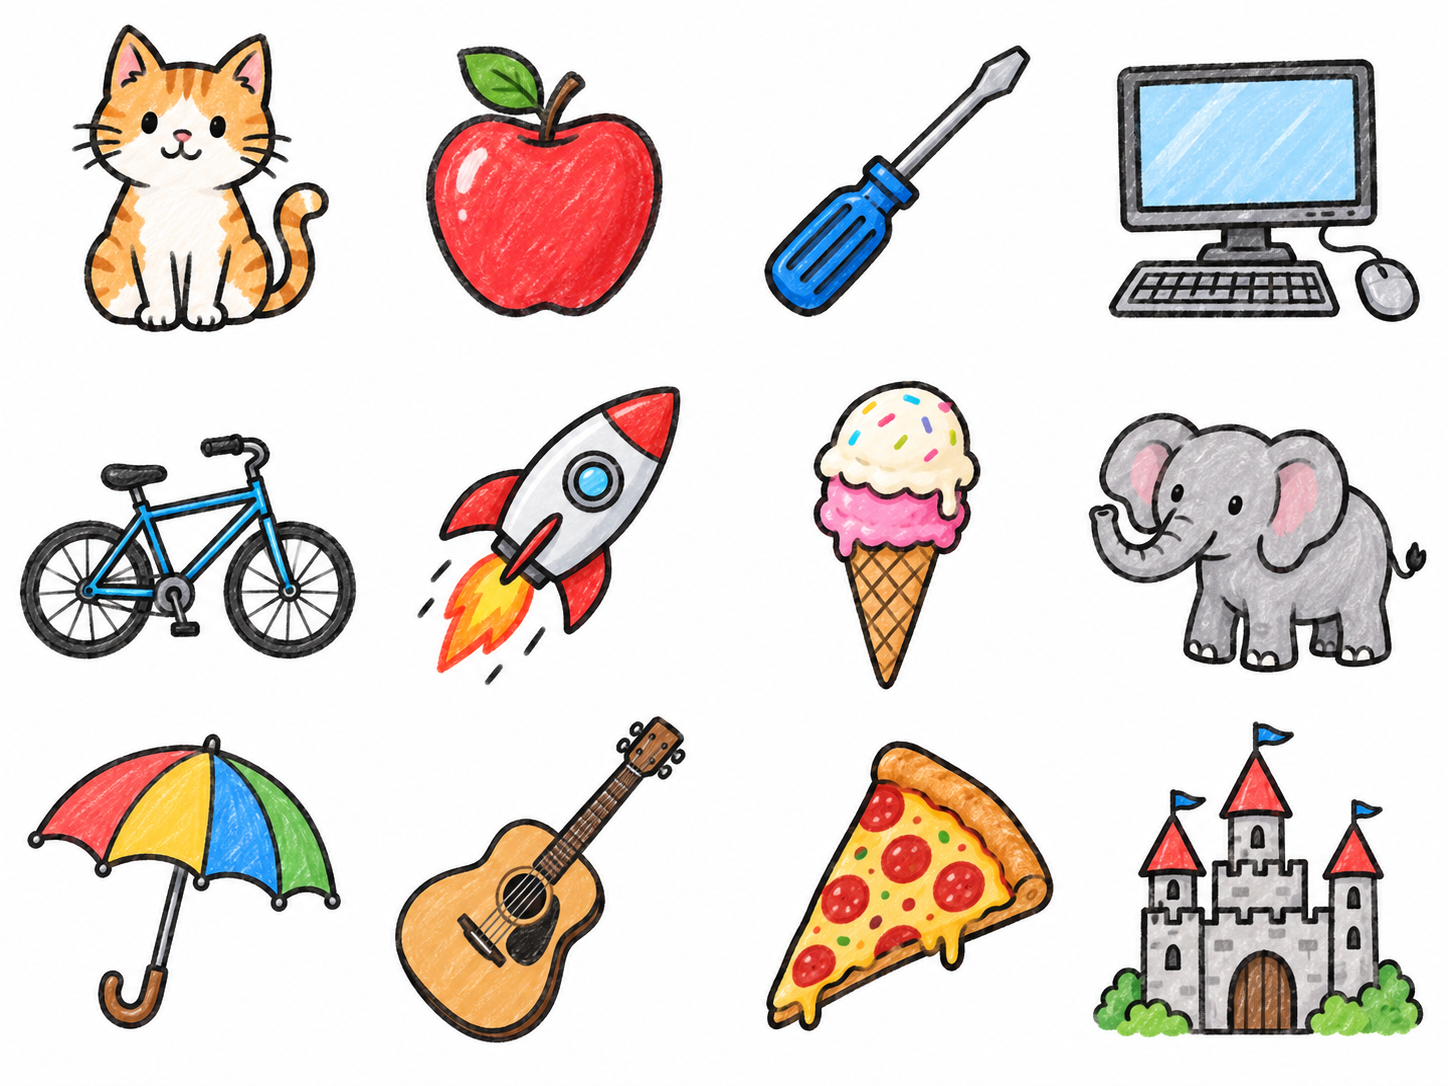
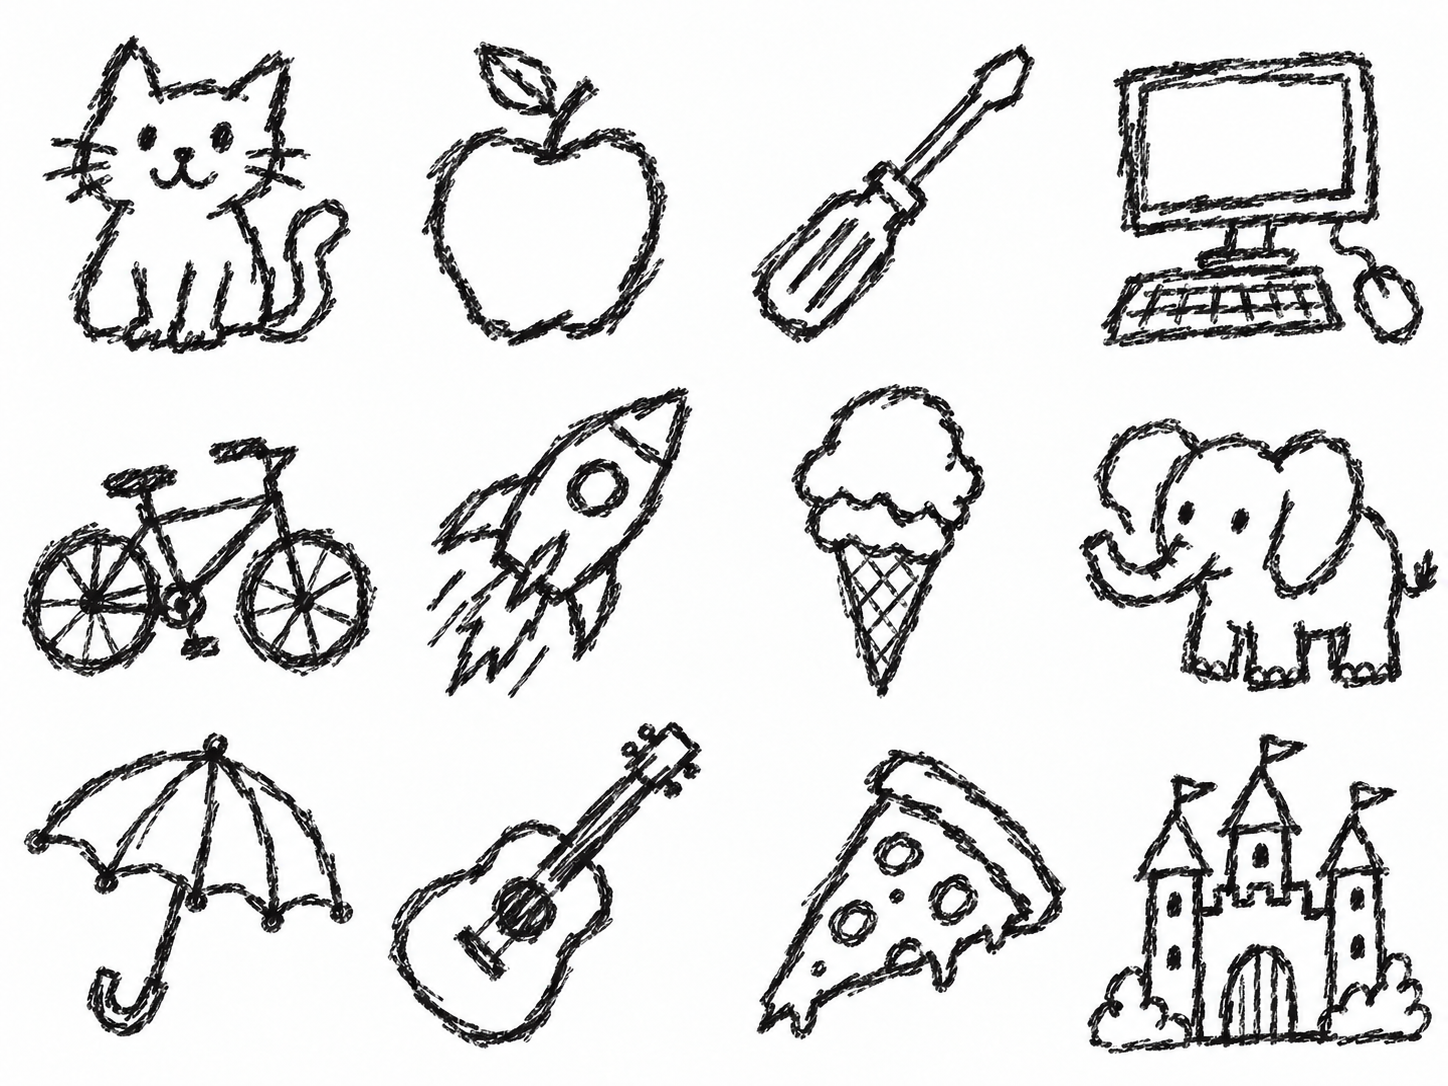
Make PhoneEnigma harder with monochrome sketches and daily-only play

diff --git a/components/EnigmaGame.tsx b/components/EnigmaGame.tsx
@@ -1,21 +1,22 @@
 "use client";
 import Link from 'next/link';
 import { useEffect, useRef, useState } from 'react';
-import { ArrowLeft, ArrowRight, CalendarDays, Check, Flame, Lightbulb, LoaderCircle, Paintbrush, RotateCcw, Share2, Shuffle } from 'lucide-react';
+import { ArrowLeft, ArrowRight, CalendarDays, Check, Flame, Lightbulb, LoaderCircle, Paintbrush, Share2, } from 'lucide-react';
 import ThemeToggle from './ThemeToggle';
 import { enigmaDate, enigmaStreak, ENIGMA_LIMIT, normalizeEnigma, type EnigmaResult } from '@/lib/enigma';
 type SavedGame = { id:number; guesses:string[]; day:string };
 type Stats = { wins:string[]; played:string[] };
 const STATS_KEY = 'phoneart-enigma-stats';
-const keyOf = (mode:string, day:string) => mode === 'daily' ? `phoneart-enigma-${day}` : 'phoneart-enigma-free';
+const keyOf = (_mode:string, day:string) => `phoneart-enigma-${day}`;
 function readSaved(key:string):SavedGame | null {
   try { const s=JSON.parse(localStorage.getItem(key) || 'null'); return s && Number.isInteger(s.id) && Array.isArray(s.guesses) && s.guesses.length<=6 && s.guesses.every((g:unknown)=>typeof g==='string') ? s : null; } catch { return null; }
 }
 function readStats():Stats { try { const s=JSON.parse(localStorage.getItem(STATS_KEY)||'{}');return {wins:Array.isArray(s.wins)?s.wins.filter((d:unknown)=>typeof d==='string'):[],played:Array.isArray(s.played)?s.played.filter((d:unknown)=>typeof d==='string'):[]}; } catch {return {wins:[],played:[]};} }
-// Central tiles appear first. Each mistake reveals four more pieces.
-const REVEAL_ORDER = [10, 5, 14, 9, 6, 17, 13, 2, 18, 7, 1, 22, 11, 16, 4, 15, 21, 8, 3, 20, 0, 23, 12, 19];
+// Reveal only 6% initially, with smaller fragments and a slower progression.
+const REVEAL_ORDER = Array.from({length:64}, (_, i) => (i * 37 + 10) % 64);
+const REVEAL_COUNTS = [4, 8, 14, 22, 34, 48];
 export default function EnigmaGame() {
-  const [mode,setMode]=useState<'daily'|'free'>('daily');
+  const mode = 'daily' as const;
   const [game,setGame]=useState<EnigmaResult|null>(null), [input,setInput]=useState('');
   const [busy,setBusy]=useState(true), [error,setError]=useState(''), [notice,setNotice]=useState('');
   const [stats,setStats]=useState<Stats>({wins:[],played:[]});
@@ -34,14 +35,14 @@ export default function EnigmaGame() {
       }
     } catch { /* Gameplay remains available when browser storage is disabled. */ }
   }
-  async function load(nextMode:'daily'|'free', fresh=false) {
+  async function load(nextMode:'daily', fresh=false) {
     const request=++requestId.current;setBusy(true);setError('');setNotice('');setInput('');
     try {
-      let result=await fetchGame({mode:nextMode,...(fresh ? {exclude:game?.id} : {})});
+      let result=await fetchGame({mode:nextMode});
       const saved=!fresh && readSaved(keyOf(nextMode,result.day));
       if(saved)result=await fetchGame({mode:nextMode,id:saved.id,guesses:saved.guesses,day:nextMode==='daily'?result.day:undefined});
       if(request!==requestId.current)return;
-      setGame(result);setMode(nextMode);persist(result);setStats(readStats());
+      setGame(result);persist(result);setStats(readStats());
     }catch(e){if(request===requestId.current)setError(e instanceof Error?e.message:'Não foi possível carregar.');}
     finally {if(request===requestId.current)setBusy(false);}
   }
@@ -63,11 +64,11 @@ export default function EnigmaGame() {
   async function share() {
     if(!game)return;
     const squares=game.attempts.map(a=>a.correct?'🟩':'⬜').join('');
-    const text=`PhoneEnigma ${mode==='daily'?game.day:'Livre'} · ${game.won?game.attempts.length:'X'}/6\n${squares}\n${game.score} pontos\n${location.origin}/enigma`;
+    const text=`PhoneEnigma ${game.day} · ${game.won?game.attempts.length:'X'}/6\n${squares}\n${game.score} pontos\n${location.origin}/enigma`;
     try {await navigator.clipboard.writeText(text);setNotice('Resultado copiado! Cole para compartilhar.');}
     catch {try {if(navigator.share)await navigator.share({text});else setNotice(text);}catch{setNotice(text);}}
   }
-  const revealed=game?.finished?24:Math.min(24,4*((game?.attempts.length??0)+1));
+  const revealed=game?.finished?64:REVEAL_COUNTS[game?.attempts.length??0];
   const visible=new Set(REVEAL_ORDER.slice(0,revealed));
-  return <><header className="site-header"><Link className="brand enigma-brand" href="/"><span className="brand-icon"><Paintbrush size={23}/></span>Phone<span>Art</span></Link><div className="header-right"><ThemeToggle/><Link className="enigma-back" href="/"><ArrowLeft size={16}/> Multiplayer</Link></div></header><main className="enigma-main"><div className="enigma-intro"><span className="eyebrow">Seu intervalo criativo</span><h1>Phone<span>Enigma</span></h1><p>Um desenho escondido. Seis chances de descobrir.</p></div><div className="enigma-topbar"><div className="tabs" aria-label="Tipo de desafio"><button className={mode==='daily'?'selected':''} disabled={busy} onClick={()=>load('daily')}><CalendarDays size={16}/> Desafio do dia</button><button className={mode==='free'?'selected':''} disabled={busy} onClick={()=>load('free')}><Shuffle size={16}/> Modo livre</button></div><span className="enigma-streak"><Flame size={18}/>{game?enigmaStreak(stats.wins,game.day):0} {game && enigmaStreak(stats.wins,game.day)===1?'dia seguido':'dias seguidos'}</span></div>{!game ? <section className="panel enigma-loading">{busy?<><LoaderCircle className="spin"/>Preparando seu desenho…</>:<button onClick={()=>load(mode,true)}>Tentar novamente</button>}</section>:<div className="enigma-layout"><section className="panel enigma-board"><div className="enigma-board-heading"><span><Lightbulb size={16}/>{game.category}</span><span>{game.finished?'Desenho revelado':`Pista ${game.attempts.length+1} de 6`}</span></div><div className="enigma-picture" role="img" aria-label={game.finished?`Desenho de ${game.answer}`:'Desenho parcialmente revelado; descubra o objeto'}><div className="enigma-sprite" style={{backgroundPosition:`${(game.id%4)*100/3}% ${Math.floor(game.id/4)*50}%`}}/><div className="enigma-mask" aria-hidden="true">{Array.from({length:24},(_,i)=><span key={i} className={visible.has(i)?'revealed':''}/>)}</div></div><p className="enigma-caption">{game.finished?'Agora você pode ver a imagem completa.':'Cada tentativa errada revela mais um pedaço.'}</p></section><section className="panel enigma-play"><div className="enigma-mode-label">{mode==='daily'?`Desafio de ${game.day.split('-').reverse().join('/')}`:'Sem pressa, sem limite de partidas'}</div><h2>{game.finished?game.won?'Você descobriu!':'Faltou um pouquinho.':'O que está no desenho?'}</h2>{game.finished?<div className="enigma-result" role="status"><p>A resposta é <strong>{game.answer}</strong>.</p><div className="enigma-score">{game.score}<span>pontos</span></div><p>{game.won?`Acertou em ${game.attempts.length} ${game.attempts.length===1?'tentativa':'tentativas'}.`:'Seis tentativas, uma nova ideia para a próxima.'}</p><button className="primary wide" onClick={share}><Share2 size={17}/>Compartilhar resultado</button><button className="secondary wide" disabled={busy} onClick={()=>load('free',true)}><RotateCcw size={17}/>{mode==='daily'?'Continuar no modo livre':'Próximo desenho'}</button>{mode==='daily'&&<small>Um novo desafio chega à meia-noite, no horário de Brasília.</small>}</div>:<form onSubmit={submit}><label htmlFor="enigma-answer">Sua resposta</label><div className="enigma-input"><input ref={inputRef} id="enigma-answer" placeholder="Ex.: chave de fenda" autoComplete="off" maxLength={50} value={input} disabled={busy} onChange={e=>setInput(e.target.value)}/><button className="primary" disabled={busy||!normalizeEnigma(input)} aria-label="Enviar tentativa">{busy?<LoaderCircle className="spin" size={18}/>:<ArrowRight size={20}/>}</button></div><small>Acentos e maiúsculas não fazem diferença.</small><p className="enigma-chances">{6-game.attempts.length} {game.attempts.length===5?'chance restante':'chances restantes'} · até {(6-game.attempts.length)*100} pontos</p></form>}<ol className="enigma-attempts" aria-label="Suas tentativas">{Array.from({length:ENIGMA_LIMIT},(_,i)=>{const a=game.attempts[i];return <li key={i} className={a?.correct?'correct':a?'incorrect':''}><span className="enigma-attempt-number">{i+1}</span><span>{a?.value??'—'}</span>{a&&(a.correct?<Check size={17}/>:<span className="enigma-attempt-label">Mais uma pista</span>)}</li>;})}</ol></section></div>}{error&&<p className="error" role="alert">{error}</p>}{notice&&<p className="enigma-notice" role="status">{notice}</p>}<section className="enigma-rules"><h2>Como funciona</h2><div><p><b>01</b> Observe os pedaços e a categoria.</p><p><b>02</b> Tente uma palavra. Errou? Mais desenho aparece.</p><p><b>03</b> Acerte em até seis chances. Menos pistas, mais pontos.</p></div><small>O desafio diário é igual para todo mundo. Progresso e sequência ficam salvos neste navegador, sem cadastro.</small></section></main></>;
+  return <><header className="site-header"><Link className="brand enigma-brand" href="/"><span className="brand-icon"><Paintbrush size={23}/></span>Phone<span>Art</span></Link><div className="header-right"><ThemeToggle/><Link className="enigma-back" href="/"><ArrowLeft size={16}/> Multiplayer</Link></div></header><main className="enigma-main"><div className="enigma-intro"><span className="eyebrow">Seu intervalo criativo</span><h1>Phone<span>Enigma</span></h1><p>Um desenho escondido. Seis chances de descobrir.</p></div><div className="enigma-topbar"><span className="enigma-daily-label"><CalendarDays size={16}/> Apenas um desafio por dia</span><span className="enigma-streak"><Flame size={18}/>{game?enigmaStreak(stats.wins,game.day):0} {game && enigmaStreak(stats.wins,game.day)===1?'dia seguido':'dias seguidos'}</span></div>{!game ? <section className="panel enigma-loading">{busy?<><LoaderCircle className="spin"/>Preparando seu desenho…</>:<button onClick={()=>load(mode,true)}>Tentar novamente</button>}</section>:<div className="enigma-layout"><section className="panel enigma-board"><div className="enigma-board-heading"><span><Lightbulb size={16}/>{game.finished || game.attempts.length>=3 ? game.category : "Categoria na 4ª pista"}</span><span>{game.finished?'Desenho revelado':`Pista ${game.attempts.length+1} de 6`}</span></div><div className="enigma-picture" role="img" aria-label={game.finished?`Desenho de ${game.answer}`:'Desenho parcialmente revelado; descubra o objeto'}><div className="enigma-sprite" style={{backgroundPosition:`${(game.id%4)*100/3}% ${Math.floor(game.id/4)*50}%`}}/><div className="enigma-mask" aria-hidden="true">{Array.from({length:64},(_,i)=><span key={i} className={visible.has(i)?'revealed':''}/>)}</div></div><p className="enigma-caption">{game.finished?'Agora você pode ver a imagem completa.':'Cada tentativa errada revela mais um pedaço.'}</p></section><section className="panel enigma-play"><div className="enigma-mode-label">{`Desafio de ${game.day.split('-').reverse().join('/')}`}</div><h2>{game.finished?game.won?'Você descobriu!':'Faltou um pouquinho.':'O que está no desenho?'}</h2>{game.finished?<div className="enigma-result" role="status"><p>A resposta é <strong>{game.answer}</strong>.</p><div className="enigma-score">{game.score}<span>pontos</span></div><p>{game.won?`Acertou em ${game.attempts.length} ${game.attempts.length===1?'tentativa':'tentativas'}.`:'Seis tentativas, uma nova ideia para a próxima.'}</p><button className="primary wide" onClick={share}><Share2 size={17}/>Compartilhar resultado</button><small>Por hoje é só! Um novo desafio chega à meia-noite, no horário de Brasília.</small></div>:<form onSubmit={submit}><label htmlFor="enigma-answer">Sua resposta</label><div className="enigma-input"><input ref={inputRef} id="enigma-answer" placeholder="Ex.: chave de fenda" autoComplete="off" maxLength={50} value={input} disabled={busy} onChange={e=>setInput(e.target.value)}/><button className="primary" disabled={busy||!normalizeEnigma(input)} aria-label="Enviar tentativa">{busy?<LoaderCircle className="spin" size={18}/>:<ArrowRight size={20}/>}</button></div><small>Acentos e maiúsculas não fazem diferença.</small><p className="enigma-chances">{6-game.attempts.length} {game.attempts.length===5?'chance restante':'chances restantes'} · até {(6-game.attempts.length)*100} pontos</p></form>}<ol className="enigma-attempts" aria-label="Suas tentativas">{Array.from({length:ENIGMA_LIMIT},(_,i)=>{const a=game.attempts[i];return <li key={i} className={a?.correct?'correct':a?'incorrect':''}><span className="enigma-attempt-number">{i+1}</span><span>{a?.value??'—'}</span>{a&&(a.correct?<Check size={17}/>:<span className="enigma-attempt-label">Mais uma pista</span>)}</li>;})}</ol></section></div>}{error&&<p className="error" role="alert">{error}</p>}{notice&&<p className="enigma-notice" role="status">{notice}</p>}<section className="enigma-rules"><h2>Como funciona</h2><div><p><b>01</b> Observe os traços. A categoria aparece na quarta pista.</p><p><b>02</b> Tente uma palavra. Errou? Mais desenho aparece.</p><p><b>03</b> Acerte em até seis chances. Menos pistas, mais pontos.</p></div><small>O desafio diário é igual para todo mundo. Progresso e sequência ficam salvos neste navegador, sem cadastro.</small></section></main></>;
 }

diff --git a/tests/enigma.test.ts b/tests/enigma.test.ts
@@ -11,17 +11,26 @@ test('daily challenge is identical for everyone and uses the Brasilia calendar',
  assert.equal(new Set(Array.from({length:12},(_,i)=>dailyEnigmaId(`2026-10-${String(i+1).padStart(2,'0')}`))).size,12);
  assert.throws(()=>evaluateEnigma({mode:'daily',day:'2000-01-01'},now));
 });
+function puzzle(id:number, guesses:string[]) {
+ for(let day=1;day<=12;day++) {
+  const date=new Date(`2026-10-${String(day).padStart(2,'0')}T15:00:00Z`);
+  if(dailyEnigmaId(enigmaDate(date))===id)return evaluateEnigma({mode:'daily',guesses},date);
+ }
+ throw Error('Puzzle not found');
+}
 test('six guesses reveal the answer only at win or loss, and award fewer points with more clues',()=>{
- assert.equal(evaluateEnigma({mode:'free',id:0,guesses:['gato']},now).score,600);
- const result=evaluateEnigma({mode:'free',id:1,guesses:['banana','MACA']},now);
+ assert.equal(puzzle(0,['gato']).score,600);
+ const result=puzzle(1,['banana','MACA']);
  assert.equal(result.answer,'maçã');assert.equal(result.score,500);assert.equal(result.won,true);
- const incomplete=evaluateEnigma({mode:'free',id:2,guesses:['martelo']},now);assert.equal(incomplete.answer,null);assert.equal(incomplete.finished,false);
- const loss=evaluateEnigma({mode:'free',id:2,guesses:Array(6).fill('martelo')},now);assert.equal(loss.answer,'chave de fenda');assert.equal(loss.score,0);assert.equal(loss.finished,true);
- assert.equal(evaluateEnigma({mode:'free',id:3,guesses:['PC','wrong']},now).attempts.length,1);
+ const incomplete=puzzle(2,['martelo']);assert.equal(incomplete.answer,null);assert.equal(incomplete.finished,false);
+ const loss=puzzle(2,Array(6).fill('martelo'));assert.equal(loss.answer,'chave de fenda');assert.equal(loss.score,0);assert.equal(loss.finished,true);
+ assert.equal(puzzle(3,['PC','wrong']).attempts.length,1);
 });
-test('invalid guesses and ids are rejected, and free mode skips the previous drawing',()=>{
- for(const value of [{mode:'bad'},{mode:'free',id:-1},{mode:'free',id:99},{mode:'free',id:0,guesses:['']},{mode:'free',id:0,guesses:['x'.repeat(51)]},{mode:'free',id:0,guesses:Array(7).fill('x')}])assert.throws(()=>evaluateEnigma(value,now));
- for(let i=0;i<30;i++)assert.notEqual(evaluateEnigma({mode:'free',exclude:5},now).id,5);
+test('free mode is rejected and clients cannot choose future daily drawings',()=>{
+ assert.throws(()=>evaluateEnigma({mode:'free',id:0},now));
+ assert.throws(()=>evaluateEnigma({mode:'daily',day:'2026-10-30'},now));
+ assert.equal(evaluateEnigma({mode:'daily',id:999},now).id,dailyEnigmaId(enigmaDate(now)));
+ for(const value of [{mode:'bad'},{mode:'daily',guesses:['']},{mode:'daily',guesses:['x'.repeat(51)]},{mode:'daily',guesses:Array(7).fill('x')}])assert.throws(()=>evaluateEnigma(value,now));
 });
 test('daily streak continues across midnight and resets when a day is missed',()=>{
  assert.equal(enigmaStreak(['2026-10-27','2026-10-28'],'2026-10-29'),2);

diff --git a/lib/enigma-server.ts b/lib/enigma-server.ts
@@ -1,4 +1,3 @@
-import { randomInt } from 'node:crypto';
 import { enigmaDate, normalizeEnigma, ENIGMA_LIMIT, type EnigmaResult } from './enigma';
 // This answer bank is imported only by server routes.
 const PUZZLES = [
@@ -20,10 +19,9 @@ export function dailyEnigmaId(day: string) {
   return ((days * 5 + 7) % PUZZLES.length + PUZZLES.length) % PUZZLES.length;
 }
 export function evaluateEnigma(input: Record<string, unknown>, now = new Date()): EnigmaResult {
-  if (input.mode !== 'daily' && input.mode !== 'free') throw Error('Modo inválido.');
+  if (input.mode !== 'daily') throw Error('Modo inválido.');
   const day = enigmaDate(now);
-  const id = input.mode === 'daily' ? dailyEnigmaId(day)
-    : input.id === undefined ? randomFreeId(input.exclude) : Number(input.id);
+  const id = dailyEnigmaId(day);
   if (!Number.isInteger(id) || id < 0 || id >= PUZZLES.length) throw Error('Desafio inválido.');
   if (input.mode === 'daily' && input.day !== undefined && input.day !== day)
     throw Error('Um novo desafio do dia chegou. Recarregue a página.');
@@ -41,8 +39,4 @@ export function evaluateEnigma(input: Record<string, unknown>, now = new Date())
   const won = attempts.some(a => a.correct), finished = won || attempts.length === ENIGMA_LIMIT;
   return { id, day, mode:input.mode, category, attempts, won, finished, answer:finished ? answer : null,
     score:won ? (7 - attempts.length) * 100 : 0 };
-}
-function randomFreeId(exclude: unknown) {
-  const choices = PUZZLES.map((_, i) => i).filter(i => i !== exclude);
-  return choices[randomInt(choices.length)];
 }

diff --git a/app/page.tsx b/app/page.tsx
@@ -412,7 +412,7 @@ export default function Page() {
               </div>
               <Illustration />
             </section>
-            <Link href="/enigma" className="enigma-home-card"><span className="enigma-home-icon"><Lightbulb size={28}/></span><span><small>PARA JOGAR SOLO</small><strong>PhoneEnigma</strong><span>Um desenho, seis chances. Descubra o desafio do dia ou jogue no modo livre.</span></span><ArrowRight size={24}/></Link>
+            <Link href="/enigma" className="enigma-home-card"><span className="enigma-home-icon"><Lightbulb size={28}/></span><span><small>PARA JOGAR SOLO</small><strong>PhoneEnigma</strong><span>Um desenho, seis chances. Um desafio por dia, em preto e branco. Será que você descobre?</span></span><ArrowRight size={24}/></Link>
             <section className="entry-section">
               <div className="room-card">
                 <div className="card-heading">

diff --git a/app/globals.css b/app/globals.css
@@ -2538,3 +2538,6 @@ footer {
 .enigma-input input { background:var(--field); color:var(--ink); border:1px solid var(--line); padding:12px 14px; border-radius:10px; }
 .enigma-input input::placeholder { color:var(--faint); }
 .enigma-topbar .tabs button.selected { background:var(--accent-soft); color:var(--accent-strong); }
+.enigma-mask { grid-template-columns:repeat(8,1fr); grid-template-rows:repeat(8,1fr); }
+.enigma-sprite { filter:grayscale(1) contrast(1.2); }
+.enigma-daily-label { display:flex; align-items:center; gap:8px; font-weight:600; color:var(--accent); }

diff --git a/app/enigma/page.tsx b/app/enigma/page.tsx
@@ -2,6 +2,6 @@ import type { Metadata } from 'next';
 import EnigmaGame from '@/components/EnigmaGame';
 export const metadata: Metadata = {
   title: 'PhoneEnigma — um desenho, seis chances',
-  description: 'Descubra o desenho aos poucos. Desafio diário e modo livre, sem sala ou cadastro.',
+  description: 'Descubra o desenho aos poucos. Um desafio diário em preto e branco, sem sala ou cadastro.',
 };
 export default function EnigmaPage() { return <EnigmaGame />; }

diff --git a/lib/enigma.ts b/lib/enigma.ts
@@ -17,7 +17,7 @@ export function enigmaStreak(wins: string[], today: string) {
   return streak;
 }
 export type EnigmaResult = {
-  id: number; day: string; mode: 'daily' | 'free'; category: string;
+  id: number; day: string; mode: 'daily'; category: string;
   attempts: { value: string; correct: boolean }[];
   finished: boolean; won: boolean; answer: string | null; score: number;
 };

diff --git a/README.md b/README.md
@@ -104,10 +104,10 @@ O compartilhamento usa snapshots compactos do canvas e a sincronização periód
 
 ### PhoneEnigma (solo)
 
-Acesse **/enigma** ou o cartão PhoneEnigma na página inicial. Não precisa de sala, conta ou Redis. O jogador tem seis tentativas; cada erro revela mais quatro partes da ilustração, até o desenho completo. A categoria ajuda desde o começo. Acertos valem de 600 pontos (primeira tentativa) a 100 (sexta); sem acerto, zero. Acentos, maiúsculas e alguns sinônimos são aceitos.
+Acesse **/enigma** ou o cartão PhoneEnigma na página inicial. Não precisa de sala, conta ou Redis. O jogador tem seis tentativas; cada erro revela mais fragmentos de uma ilustração grosseira em preto e branco. As seis pistas mostram 4, 8, 14, 22, 34 e 48 dos 64 fragmentos; a imagem completa aparece só ao terminar. A categoria aparece na quarta pista. Acertos valem de 600 pontos (primeira tentativa) a 100 (sexta); sem acerto, zero. Acentos, maiúsculas e alguns sinônimos são aceitos.
 
 - **Desafio do dia:** mesma ilustração para todos, com virada à meia-noite de Brasília. A página verifica a troca de dia ao recuperar foco e periodicamente.
-- **Modo livre:** próxima ilustração aleatória, evitando repetir imediatamente a anterior.
+- **Somente diário:** o modo livre foi removido, inclusive da API. Após terminar, aguarde o próximo dia.
 - Progresso, vitórias e sequência diária são locais ao navegador; limpar seus dados apaga o histórico. Sem placar global ou verificação competitiva.
 - Compartilhamento com quadradinhos e pontuação, sem a resposta. O resultado é copiado; quando necessário, usa o compartilhamento do dispositivo ou exibe o texto.
 
